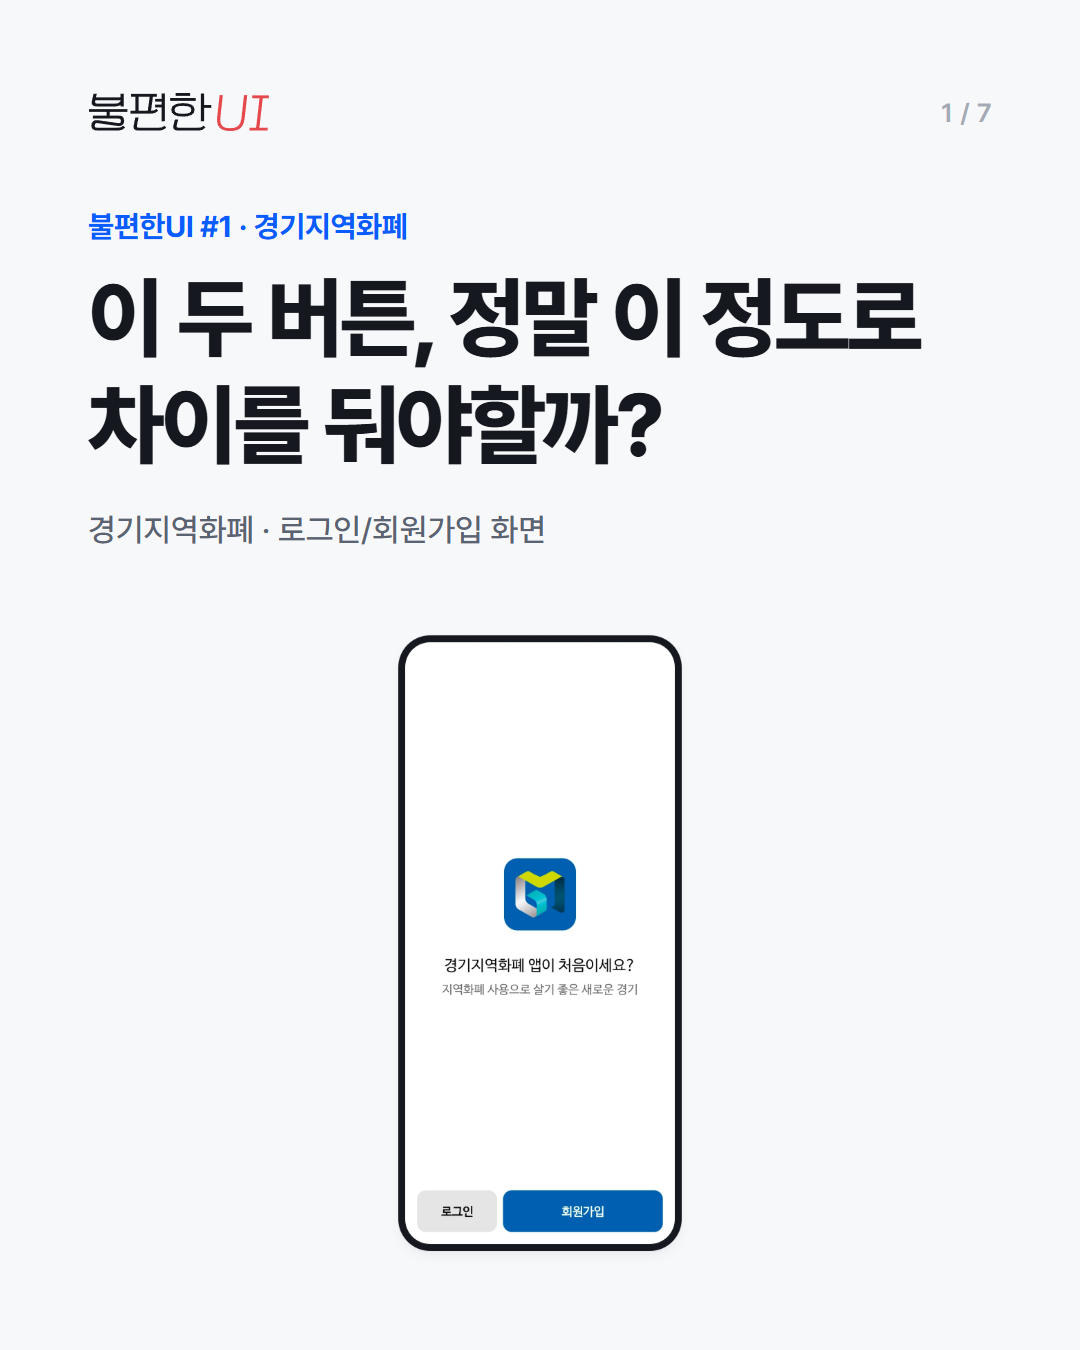
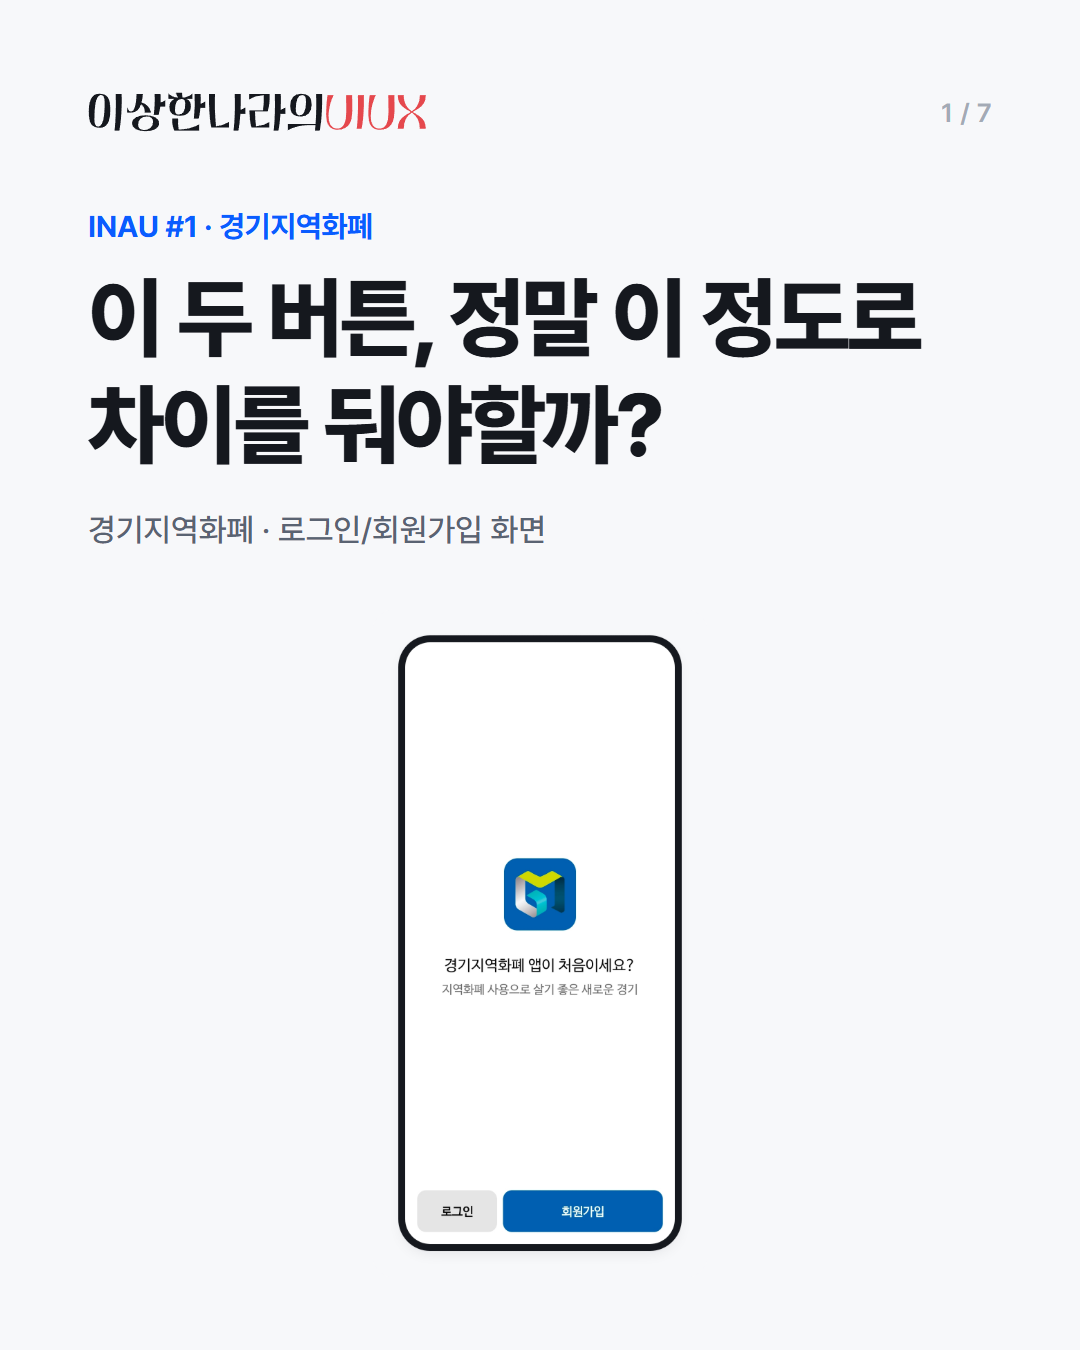
이름 변경: 이상한나라의UIUX (INAU) · 마지막 카드는 댓글 투표
- 로고: 학교안심 마법사(OFL) 아웃라인 — kit/logo.svg(전체) · kit/logo-short.svg(INAU) · kit/profile.png(인스타 프로필 1080)
- 블로그 제목·카드 머리말·해시태그(#이상한나라의UIUX #INAU)·문서 이름 교체
- 카드뉴스 마지막 장 vote: 원래 UI / 제안별 선택지 + '댓글로 번호를 남겨주세요', 캡션에도 번호 목록
- 경기지역화폐 글: 1 원래 UI · 2 같은 너비+안내 한 줄 · 3 시작 버튼+텍스트 버튼

Claude-Session: https://claude.ai/code/session_0142oRkXZEugmTBAN4CvUHKQ

Changed region(s): [[0.0611, 0.1556, 0.3972, 0.1867], [0.0611, 0.0622, 0.3972, 0.0933]]

diff --git a/kit/profile.html b/kit/profile.html
@@ -1,0 +1,8 @@
+<!doctype html><html lang="ko"><head><meta charset="utf-8"><meta name="render-width" content="540"><link rel="stylesheet" href="tokens.css"><style>body{margin:0;background:#fff}</style></head><body>
+<!-- 인스타 프로필 사진 (렌더링: node tools/render.mjs kit/profile.html → kit/profile.png, 1080×1080) -->
+<div data-capture style="width:540px;height:540px;background:var(--gray-900);display:flex;align-items:center;justify-content:center;color:#fff;--logo-accent:#ff6b6f">
+<svg style="width:330px;display:block;margin-top:6px" xmlns="http://www.w3.org/2000/svg" viewBox="4 -72.8 249.1 90.4" role="img" aria-label="INAU">
+<path class="logo-ko" fill="currentColor" d="M6 13Q6.70 8.10 7.25 1.55Q7.80-5 8.20-12.45Q8.60-19.90 8.85-27.85Q9.10-35.80 9.20-43.45Q9.30-51.10 9.20-58.15Q9.10-65.20 8.80-70.80L23.70-70.80Q23.90-65.20 23.95-58.15Q24-51.10 23.75-43.45Q23.50-35.80 23-27.90Q22.50-20 21.80-12.55Q21.10-5.10 20.15 1.45Q19.20 8 18 13L6 13M54.10 13L42 13Q40.80 8 39.85 1.45Q38.90-5.10 38.20-12.55Q37.50-20 37.05-27.90Q36.60-35.80 36.35-43.45Q36.10-51.10 36.10-58.10Q36.10-65.10 36.30-70.80L51.40-70.80Q56.50-65.40 61.15-59.75Q65.80-54.10 69.95-47.85Q74.10-41.60 77.70-34.65Q81.30-27.70 84.30-19.80Q84.60-26.50 84.80-33.50Q85-40.50 85.05-47.10Q85.10-53.70 85-59.75Q84.90-65.80 84.60-70.80L99.50-70.80Q99.70-65.20 99.75-58.15Q99.80-51.10 99.55-43.45Q99.30-35.80 98.80-27.90Q98.30-20 97.60-12.55Q96.90-5.10 95.95 1.45Q95 8 93.80 13L81.80 13Q80.60 2.50 77.80-8.50Q75-19.50 70.95-30Q66.90-40.50 61.80-49.90Q56.70-59.30 51-66.60Q50.80-60.80 50.75-53.95Q50.70-47.10 50.80-39.80Q50.90-32.50 51.20-25.05Q51.50-17.60 51.90-10.70Q52.30-3.80 52.85 2.30Q53.40 8.40 54.10 13M137.10-70.80L148.70-70.80Q155.30-62.40 160.85-52.10Q166.40-41.80 170.35-30.75Q174.30-19.70 176.55-8.45Q178.80 2.80 178.80 13.10L163.90 13.10Q163.90 1.60 161.70-10L133.30-10Q129.20 2.90 122.80 13.10L106.80 13.10Q110 9.80 113.50 5.85Q117 1.90 120.35-3.20Q123.70-8.30 126.75-14.75Q129.80-21.20 132.10-29.45Q134.40-37.70 135.75-47.90Q137.10-58.10 137.10-70.80M134.30-13.50Q142-14.60 147.95-16.95Q153.90-19.30 158.80-22.90Q155.60-34.50 150.80-45.75Q146-57 140-67Q140.50-52.10 139.10-38.70Q137.70-25.30 134.30-13.50"/>
+<path class="logo-en" fill="var(--logo-accent, #e5484d)" d="M235.50-70.80L250.60-70.80Q250.70-61.70 250.90-51.60Q251.10-41.50 251.10-31.50Q251.10-21.70 249.35-13.10Q247.60-4.50 243.30 1.85Q239 8.20 231.70 11.90Q224.40 15.60 213.20 15.60Q206.10 15.60 200.95 12.90Q195.80 10.20 192.40 5.45Q189 0.70 187.40-5.85Q185.80-12.40 185.80-20.10Q185.80-35.70 186.80-48.85Q187.80-62 189.10-70.80L204.20-70.80Q202.40-67 200.20-61.35Q198-55.70 196.15-48.95Q194.30-42.20 193-34.70Q191.70-27.20 191.70-19.70Q191.70-12.20 192.85-6.25Q194-0.30 196.55 3.90Q199.10 8.10 203.20 10.35Q207.30 12.60 213.20 12.60Q219.70 12.60 224.05 9.50Q228.40 6.40 231.05 0.95Q233.70-4.50 234.85-12Q236-19.50 236-28.30Q236-39 235.80-50.05Q235.60-61.10 235.50-70.80"/>
+</svg>
+</div></body></html>

diff --git a/kit/cards.css b/kit/cards.css
@@ -1,4 +1,4 @@
-/* 불편한UI 카드뉴스 — 1080×1350 (Instagram 4:5). 토큰은 tokens.css 를 그대로 쓴다.
+/* 이상한나라의UIUX(INAU) 카드뉴스 — 1080×1350 (Instagram 4:5). 토큰은 tokens.css 를 그대로 쓴다.
    tools/render-cards.mjs 가 cards.json 을 이 레이아웃에 채워 PNG로 만든다. */
 @import url('tokens.css');
 @import url('annotate.css');
@@ -61,3 +61,12 @@ body { background: #fff; }
 /* 가운데 정렬 (마지막 장) */
 .cp-center { flex: 1; display: flex; flex-direction: column; justify-content: center; padding-bottom: 40px; }
 .cp-center .cp-kicker { margin-top: 0; }
+
+/* 마지막 장: 댓글 투표 */
+.cp-vote { flex: 1; min-height: 0; display: grid; grid-template-columns: repeat(var(--opts, 3), 1fr); gap: 20px; margin: 40px -40px 0; }
+.cp-opt { min-height: 0; display: grid; grid-template-rows: minmax(0, 1fr) auto; gap: 18px; }
+.cp-opt img { height: 100%; width: 100%; object-fit: contain; object-position: center bottom; }
+.cp-opt-label { display: flex; justify-content: center; align-items: center; gap: 10px; font-size: 25px; line-height: 1.3; font-weight: 700; letter-spacing: -0.03em; white-space: nowrap; }
+.cp-opt-label .n { position: static; flex: none; width: 38px; height: 38px; font-size: 21px; line-height: 38px; box-shadow: none; }
+.n.vote-n { background: var(--gray-900); }
+.cp-cta { flex: none; margin: 32px -88px 0; padding: 30px 0 34px; text-align: center; background: var(--gray-900); color: #fff; font-size: 34px; font-weight: 700; }

diff --git a/kit/annotate.css b/kit/annotate.css
@@ -1,4 +1,4 @@
-/* 불편한UI — 주석 · 비교 보드. UI 색(파랑)과 겹치지 않게 문제=빨강, 바뀐 부분=보라. */
+/* 이상한나라의UIUX(INAU) — 주석 · 비교 보드. UI 색(파랑)과 겹치지 않게 문제=빨강, 바뀐 부분=보라. */
 
 /* ── 바뀐 부분 / 문제 부분 표시 (와이어프레임 위) ──
    <div class="card fix">…<i class="n">1</i></div>  ← 번호는 본문 ①②③과 1:1 */

diff --git a/kit/wire.css b/kit/wire.css
@@ -1,4 +1,4 @@
-/* 불편한UI 디자인 시스템 진입점 — 와이어프레임 HTML은 이 파일 하나만 불러온다.
+/* 이상한나라의UIUX(INAU) 디자인 시스템 진입점 — 와이어프레임 HTML은 이 파일 하나만 불러온다.
    토큰(색·타이포·간격·그리드) → 컴포넌트 → 주석/비교 보드 순. 문서: kit/DESIGN.md */
 @import url('tokens.css');
 @import url('components.css');

diff --git a/kit/tokens.css b/kit/tokens.css
@@ -1,4 +1,4 @@
-/* 불편한UI 디자인 시스템 — 토큰
+/* 이상한나라의UIUX(INAU) 디자인 시스템 — 토큰
    색 · 타이포 · 간격(4pt) · 모서리 · 그리드(4컬럼). 컴포넌트는 components.css, 주석/비교 보드는 annotate.css. */
 @import url('https://cdn.jsdelivr.net/gh/orioncactus/pretendard@v1.3.9/dist/web/static/pretendard.min.css');
 

diff --git a/kit/components.html b/kit/components.html
@@ -1,6 +1,6 @@
 <!doctype html>
 <html lang="ko"><head><meta charset="utf-8"><meta name="render-width" content="1400">
-<title>불편한UI 디자인 시스템</title>
+<title>INAU 디자인 시스템</title>
 <link rel="stylesheet" href="wire.css">
 <style>
   .doc { width: 1400px; padding: 64px; display: flex; flex-direction: column; gap: 56px; background: var(--bg); }

diff --git a/kit/components.css b/kit/components.css
@@ -1,4 +1,4 @@
-/* 불편한UI 디자인 시스템 — 컴포넌트
+/* 이상한나라의UIUX(INAU) 디자인 시스템 — 컴포넌트
    와이어프레임은 이 파일의 컴포넌트를 조립해서 그린다. 새 스타일을 즉석에서 만들지 않는다.
    전체 목록과 사용 예: kit/DESIGN.md, kit/components.html(→ components.png) */
 

diff --git a/kit/DESIGN.md b/kit/DESIGN.md
@@ -1,11 +1,11 @@
-# 불편한UI 디자인 시스템
+# 이상한나라의UIUX(INAU) 디자인 시스템
 
 와이어프레임(After)은 **원본 화면을 따라 그리지 않고, 이 시스템의 컴포넌트를 조립해서** 그린다.
 원본에서 가져오는 것은 "화면에 무엇이 있어야 하는가(정보·기능)"뿐이고, "어떻게 생겼는가(모양·색·크기)"는 여기서 가져온다.
 
 - 진입 CSS: `kit/wire.css` (tokens → components → annotate)
 - 눈으로 보는 카탈로그: `kit/components.png` (원본 `kit/components.html`)
-- 로고: `kit/logo.svg` (학교안심 점심시간 아웃라인, "UI"는 `--logo-accent`)
+- 로고: `kit/logo.svg`(이상한나라의UIUX) · `kit/logo-short.svg`(INAU) — 학교안심 마법사(OFL) 아웃라인, 영문은 `--logo-accent`
 
 ## 1. 색
 

diff --git a/README.md b/README.md
@@ -1,11 +1,11 @@
-# 불편한UI
+# 이상한나라의UIUX (INAU)
 
 이 UI, 이렇게 고쳐보면 어떨까?
 
 ## 흐름
 
 1. 폰에서 캡처 / 화면 녹화
-2. GitHub 앱 → 이 저장소 → Issues → New → **불편한 UI 제보** 템플릿 작성 + 첨부
+2. GitHub 앱 → 이 저장소 → Issues → New → **INAU 제보** 템플릿 작성 + 첨부
 3. Actions가 자동으로: 첨부 다운로드(영상은 프레임 추출) → Claude가 분석·수정안·와이어프레임 작성 → PR 생성 → 폰 알림
 4. PR 검토. 고칠 게 있으면 PR에 `@claude ...` 댓글
 5. Merge → GitHub Pages 블로그에 게시
